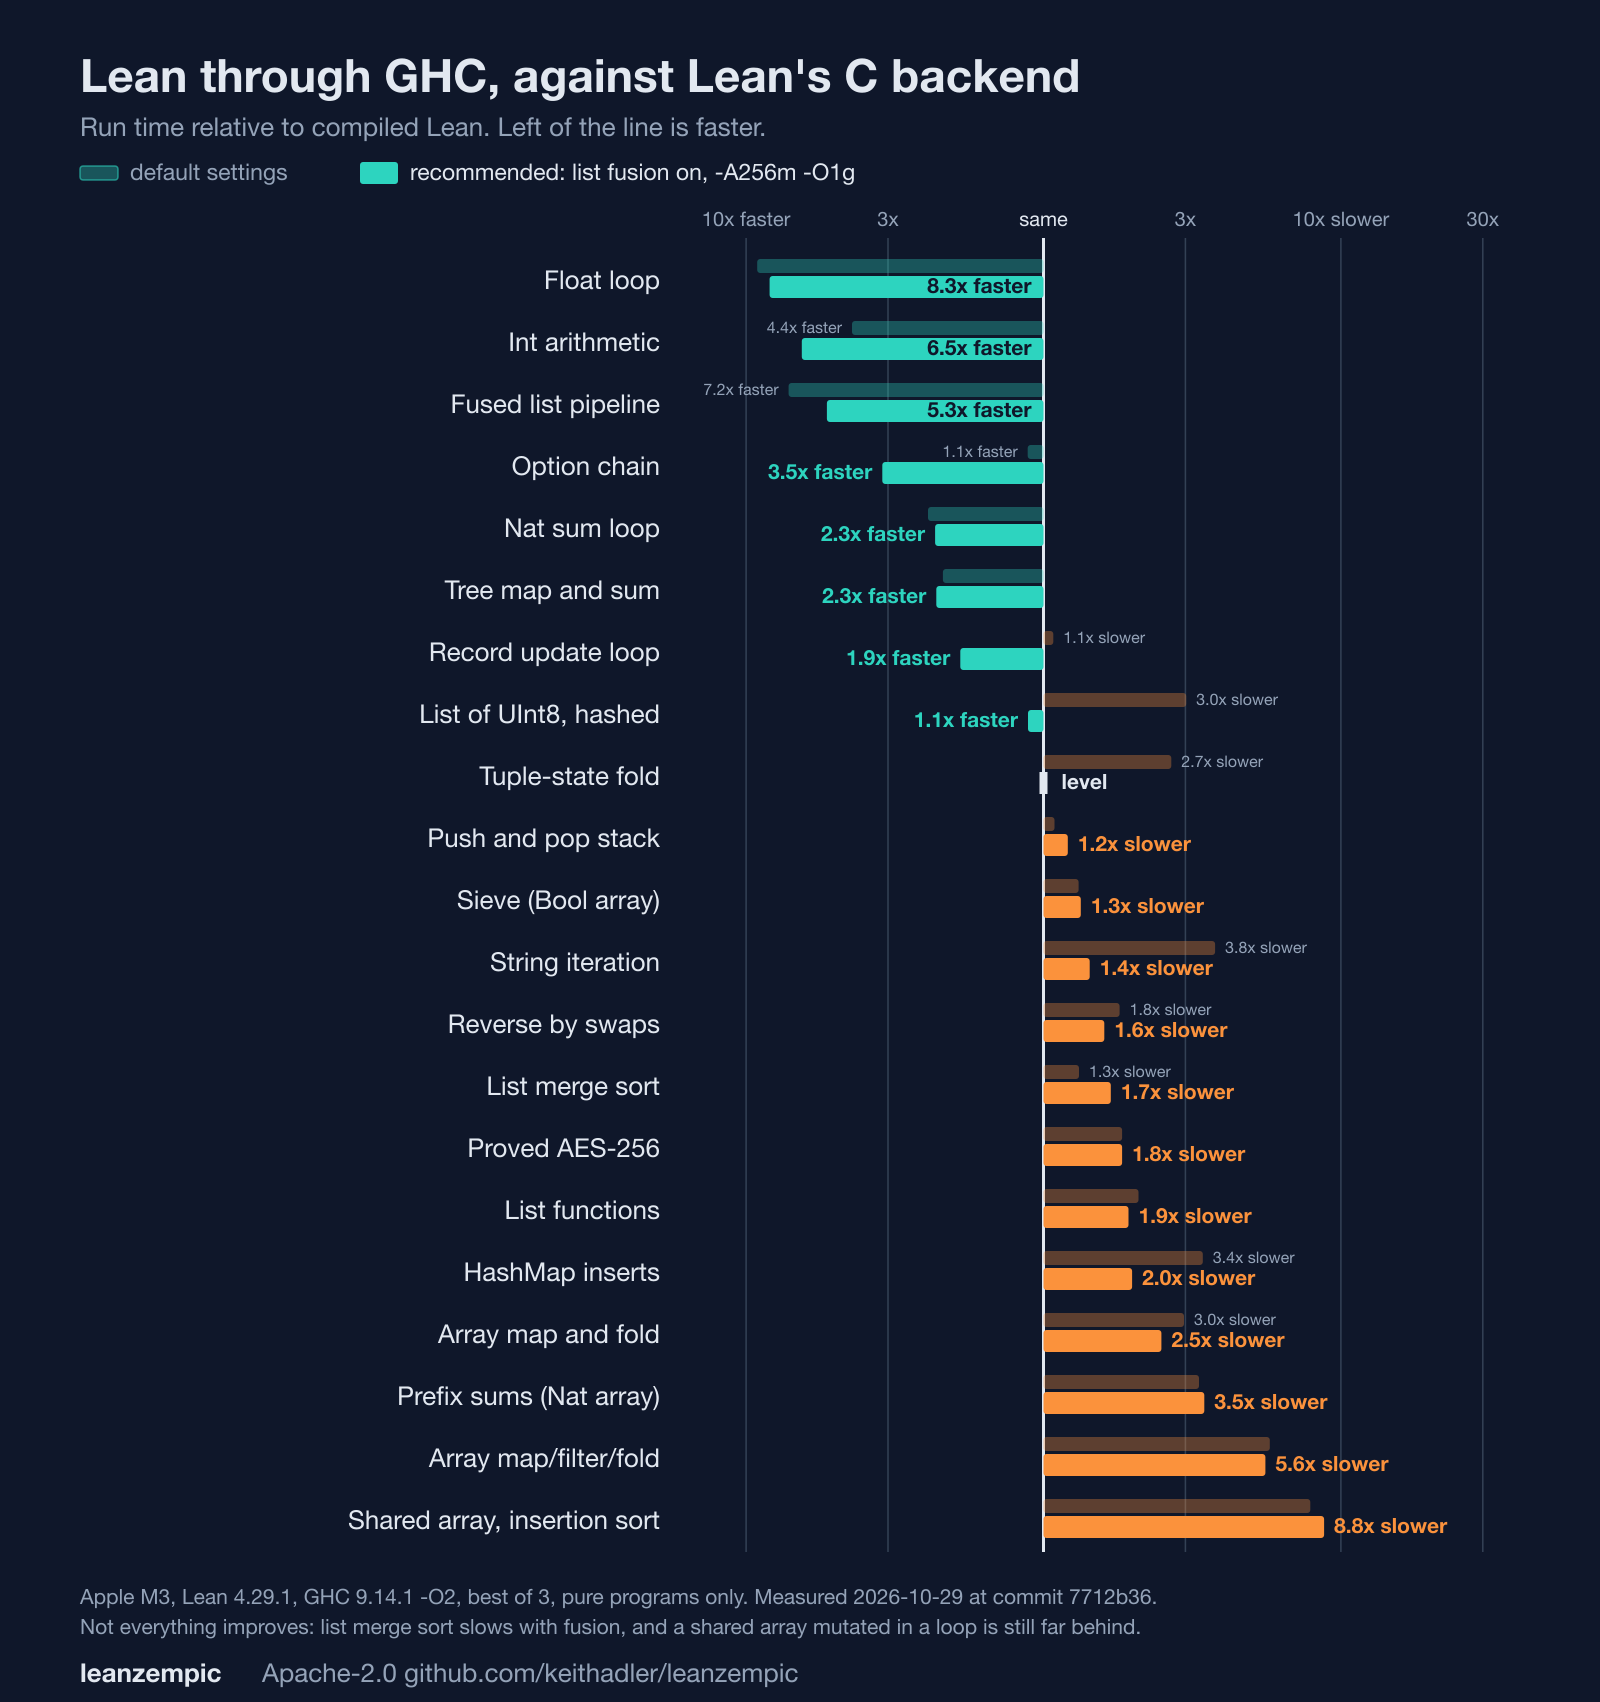
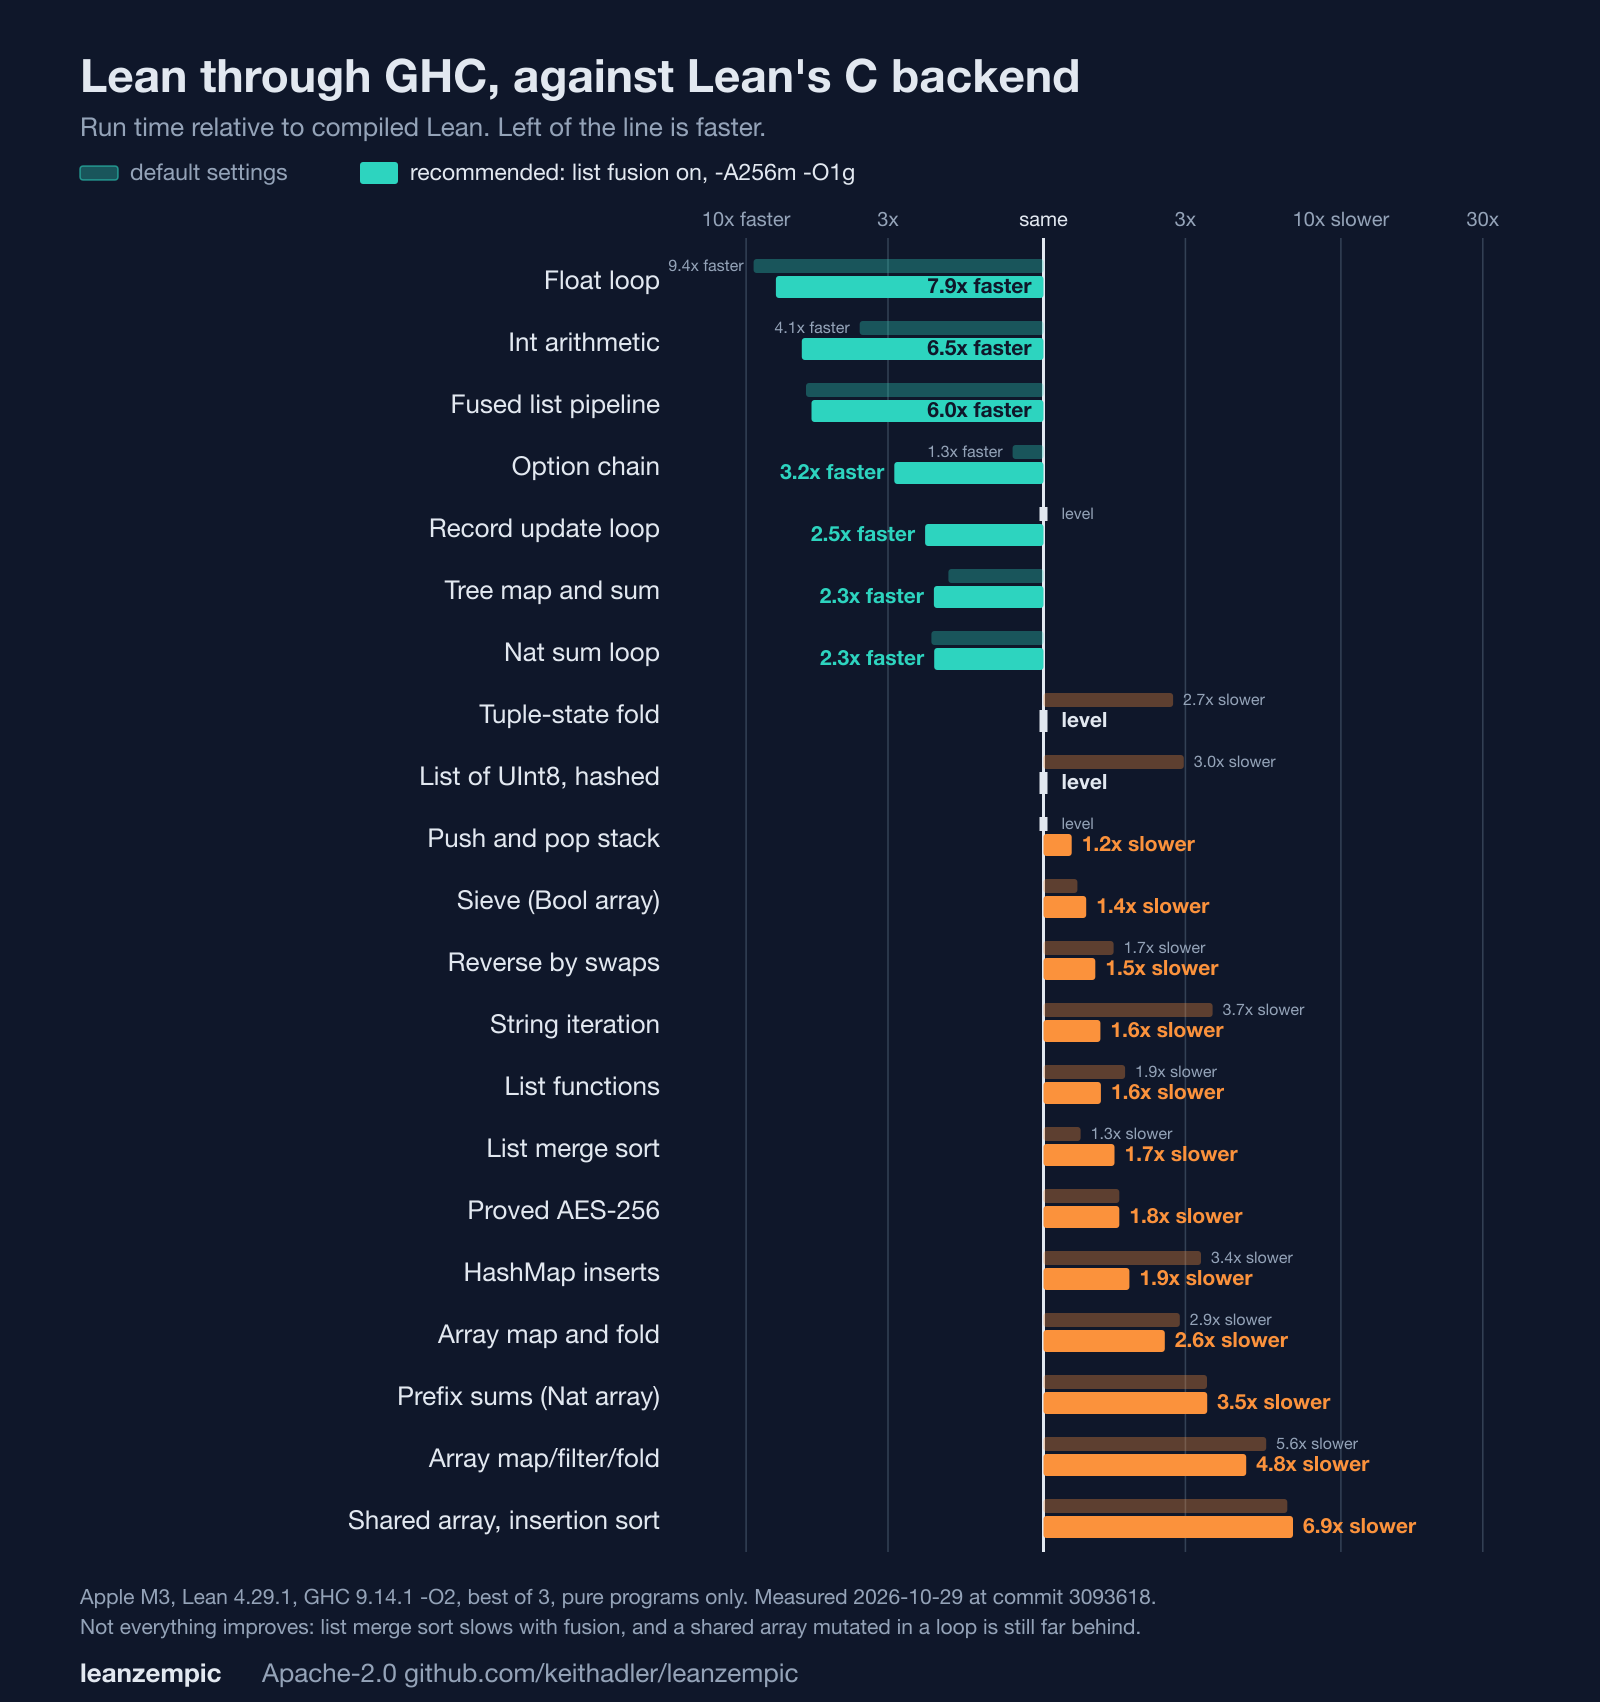
Refresh chart and docs for lazy copies; rc2 changelog

diff --git a/README.md b/README.md
@@ -5,12 +5,12 @@ shaped like GHC Core, so that GHC's optimizer (strictness analysis, worker/wrapp
 list fusion, unboxing) decides how your Lean program runs, instead of Lean's C backend.
 
 * License: Apache-2.0, public
-* Status: pre-release (`v0.1.0-rc1` is the first tag), single maintainer
+* Status: pre-release (`v0.1.0-rc2` is the latest tag), single maintainer
 * Tested on: macOS arm64 (Apple M3, and macOS 15 in CI) and Linux x86_64 (Ubuntu, in CI); Lean 4.29.1
   and GHC 9.14.1 only. CI runs the test suite on both, with a 36-program subset of the garden.
 * Honest one-line summary: up to 9x faster than Lean's C backend on numeric, `Int`, `Float`, record and
   fused-list code; with the recommended settings, between level and 3x slower on lists, tuples,
-  strings and hash maps (up to 4x slower with defaults); 4x to 18x slower on arrays, which is the main
+  strings and hash maps (up to 4x slower with defaults); 3.5x to 7x slower on arrays, which is the main
   open problem. See [Benchmarks](#benchmarks) for every number, including the losses.
 
 ![Run time of the Haskell output relative to compiled Lean, with default settings and with list fusion on and -A256m -O1g](docs/bench-chart.png)
@@ -346,7 +346,7 @@ on.** Set the option before the definitions (the pass runs when Lean compiles th
 prints them). Measured on the garden with identical answers: a list pipeline over a `UInt8` hash 5x
 faster (0.15 s to 0.03 s), a tuple-state fold 3x (0.26 s to 0.08 s), `Int` list work 2x, `Option` and
 sum-type folds 2x to 3x. It is not free everywhere: a list merge sort got slower (0.09 s to 0.12 s).
-All 106 garden programs give the same answers with it on (`GARDEN_FUSE=1 python3 garden/run.py`).
+All 109 garden programs give the same answers with it on (`GARDEN_FUSE=1 python3 garden/run.py`).
 `#zempic` prints a warning when the code contains Lean's own list loops and the pass is off, so the
 speedup is not missed.
 
@@ -580,8 +580,8 @@ Reading these honestly:
 `garden/perf.py` times 40 or so of the garden programs against compiled native Lean (details and
 profiles in [`BENCH.md`](BENCH.md)). Short version: arithmetic, `Int`, `Float`, records and trees are
 level or faster (down to 0.1x for a `Float` loop); lists, arrays, hash maps and strings built from
-pieces are 2x to 7x slower; an array that a caller shares and a loop mutates is about 20x slower
-(Lean copies it once; this backend runs the loop on the persistent array).
+pieces are 2x to 7x slower; an array that a caller shares and a loop mutates is about 7x slower
+(Lean copies it once; this backend copies lazily on the first write, then runs in place).
 
 **Run Haskell output with a large allocation area, and know what it costs.** Garbage collection is
 about half the run time of the slow programs, because a copying collector copies every live boxed
@@ -620,7 +620,7 @@ An honest checklist, because "production" depends on what you need.
 |---|---|
 | Continuous integration | GitHub Actions runs the suite on Ubuntu and macOS 15 for every push, including the Cabal package build and a 36-program garden subset at `-O1` with fusion on |
 | Fails fast | an unsupported Lean version or a mistyped mode is a clear error; an unsupported Lean constant is an error that lists it, never silently dropped code |
-| Tested against Lean itself | the examples, 106 garden programs (one per language feature) and a proved AES-256 (also checked against OpenSSL) compare generated code with native Lean, value by value |
+| Tested against Lean itself | the examples, 109 garden programs (one per language feature) and a proved AES-256 (also checked against OpenSSL) compare generated code with native Lean, value by value |
 | Runtime tested against models | random operation sequences on arrays, strings, integers and the `Word`/`Natural` fast path, with deliberately broken runtimes caught |
 | Differential fuzzing | random Lean programs run by Lean and through leanzempic must agree (`tools/fuzz.py`) |
 | Machine-checked facts | Tenet verifies 265 of 265 declarations, including name-mangling injectivity |
@@ -631,7 +631,7 @@ An honest checklist, because "production" depends on what you need.
 
 | | |
 |---|---|
-| Pre-release | `v0.1.0-rc1` is tagged; there is no final `v0.1.0`, no package on Hackage or Reservoir, and the interface may change |
+| Pre-release | `v0.1.0-rc2` is tagged (`rc1` before it); there is no final `v0.1.0`, no package on Hackage or Reservoir, and the interface may change |
 | One Lean, one GHC | Lean 4.29.x and GHC 9.14.1 only. Windows is untested |
 | Pure functions only | no `IO`, so you compile functions and call them from Haskell; a Lean `main` cannot be compiled |
 | Missing | `IO`, `FloatArray`, `Float.toString`; any `@[extern]` constant that is not in the primitive table is reported, never dropped |
@@ -667,7 +667,7 @@ compile generated Haskell and compare it, value by value, with native Lean at se
 | `proptests` | random operation sequences on arrays, strings, fixed-width integers and the `Word`/`Natural` fast path, each step compared with a pure model |
 | `fuzz` | a short differential-fuzzing run: random Lean programs must give the same answers under Lean and leanzempic |
 | `aes` | AES-256 from the proved [lean-aes](https://github.com/keithadler/lean-aes) (`bench/aes`): Lean's C, the Haskell and OpenSSL (`tools/aes_oracle.py`) give the same ciphertext |
-| `garden` | the [garden](#the-garden): 106 programs locally, 36 in CI |
+| `garden` | the [garden](#the-garden): 109 programs locally, 38 in CI |
 
 ### The garden
 
@@ -793,7 +793,7 @@ runtime/Zempic/         the Haskell runtime (about 1,800 lines)
 examples/               Lean programs used as tests and benchmarks
 bench/                  Haskell drivers and bench/build.sh
 bench/aes/              AES-256 from lean-aes, built both ways and timed (run.sh)
-garden/                 106 small programs, one per feature: run.py (correctness), perf.py (timing)
+garden/                 109 small programs, one per feature: run.py (correctness), perf.py (timing)
 docs/                   the benchmark chart (make_chart.py draws it from chart-data.json)
 tests/run.sh            the test suite
 tests/PropTests.hs      model-based randomized tests of the runtime
@@ -915,8 +915,7 @@ Ideas in rough order of value, none promised:
 
 * the array gap (2x to 10x), the main open problem: copying a shared array once on entry to a loop
   that mutates it, as Lean does (the undo chain is already bounded, which took the shared-array insertion
-  sort from 18x to about 10x); the catch is a function that rarely writes, called many times on one
-  shared array, which would then copy every time
+  sort from 18x to about 10x, then lazy copies on first write to about 7x); the rest is the cost of the persistent representation
 * making fusion the default (it is 2x to 5x on list pipelines but slower natively and on one merge
   sort), and more combinators (`reverse`, `filterMap`, `zipWith`, array and `for` loops)
 * unboxed list elements and pair components (they are `Any` today)

diff --git a/BENCH.md b/BENCH.md
@@ -384,7 +384,7 @@ process start-up, about 15 ms with `-A128m`) and are not reported. Of the rest:
 
 **The pattern.** Arithmetic, records, `Int`, `Float` and trees are level or faster. Everything that
 holds many boxed elements (lists, arrays, hash maps, strings built from pieces) is 2x to 7x slower,
-and the one case where an array is both shared and mutated in a loop is 20x.
+and the one case where an array is both shared and mutated in a loop is about 7x (lazy copies).
 
 **Why, from the profiles.**
 
@@ -466,7 +466,7 @@ first. With it set correctly, best of 3, identical answers:
 
 The reason is what tenet-hs found about copying collectors: live data is the cost, not allocation.
 A fused pipeline never builds the intermediate list, so there is nothing for the collector to copy.
-All 106 garden programs agree with native Lean with fusion on (`GARDEN_FUSE=1`).
+All 109 garden programs agree with native Lean with fusion on (`GARDEN_FUSE=1`).
 
 **A GHC panic, found by fusion.** `list_funcs` with fusion made GHC 9.14.1 panic ("the 'impossible'
 happened", `StgToCmm.Env: variable not found co5_Xc`). It was deterministic for a given invocation but
@@ -515,7 +515,7 @@ measurements) so the columns are comparable. All answers match native Lean.
 | `HashMap` inserts | 3e6 | 3.1x slower | 1.6x slower |
 | list functions | 1e6 | 4.3x slower | 2.7x slower |
 | array map/filter/fold | 2e6 | 5.4x slower | 4.2x slower |
-| shared array, insertion sort | 3e3 | 23x slower | 18x slower |
+| shared array, insertion sort | 3e3 | 23x slower | 6.9x slower |
 | list merge sort | 3e5 | 1.2x slower | 1.7x slower |
 | `Float` loop, tree map, `Nat` sum loop, AES-256 | | unchanged | unchanged |
 

diff --git a/CHANGELOG.md b/CHANGELOG.md
@@ -3,9 +3,14 @@
 All notable changes. The project follows semantic versioning once it has a release; until then
 everything is pre-release (`0.1.0`).
 
-## Unreleased (0.1.0)
+## 0.1.0-rc2 (2026-10-29)
 
-First complete version.
+Bounded undo chains and lazy copies for shared arrays. Shared-array insertion sort: 18x (rc1) to 6.9x slower
+than Lean's C backend. Garden is 109 programs (3 new).
+
+### Known issue
+* `string_pos` (garden) exceeds 6 GB of GHC heap at `-O2` (INLINE pragmas on the unrolled `opaqueFix` chain);
+  it builds at `-O1`, which is what CI uses. Not fixed in this release.
 
 ### Changed
 * Persistent arrays bound their undo chain: once a buffer carries as many undo records as the array has
